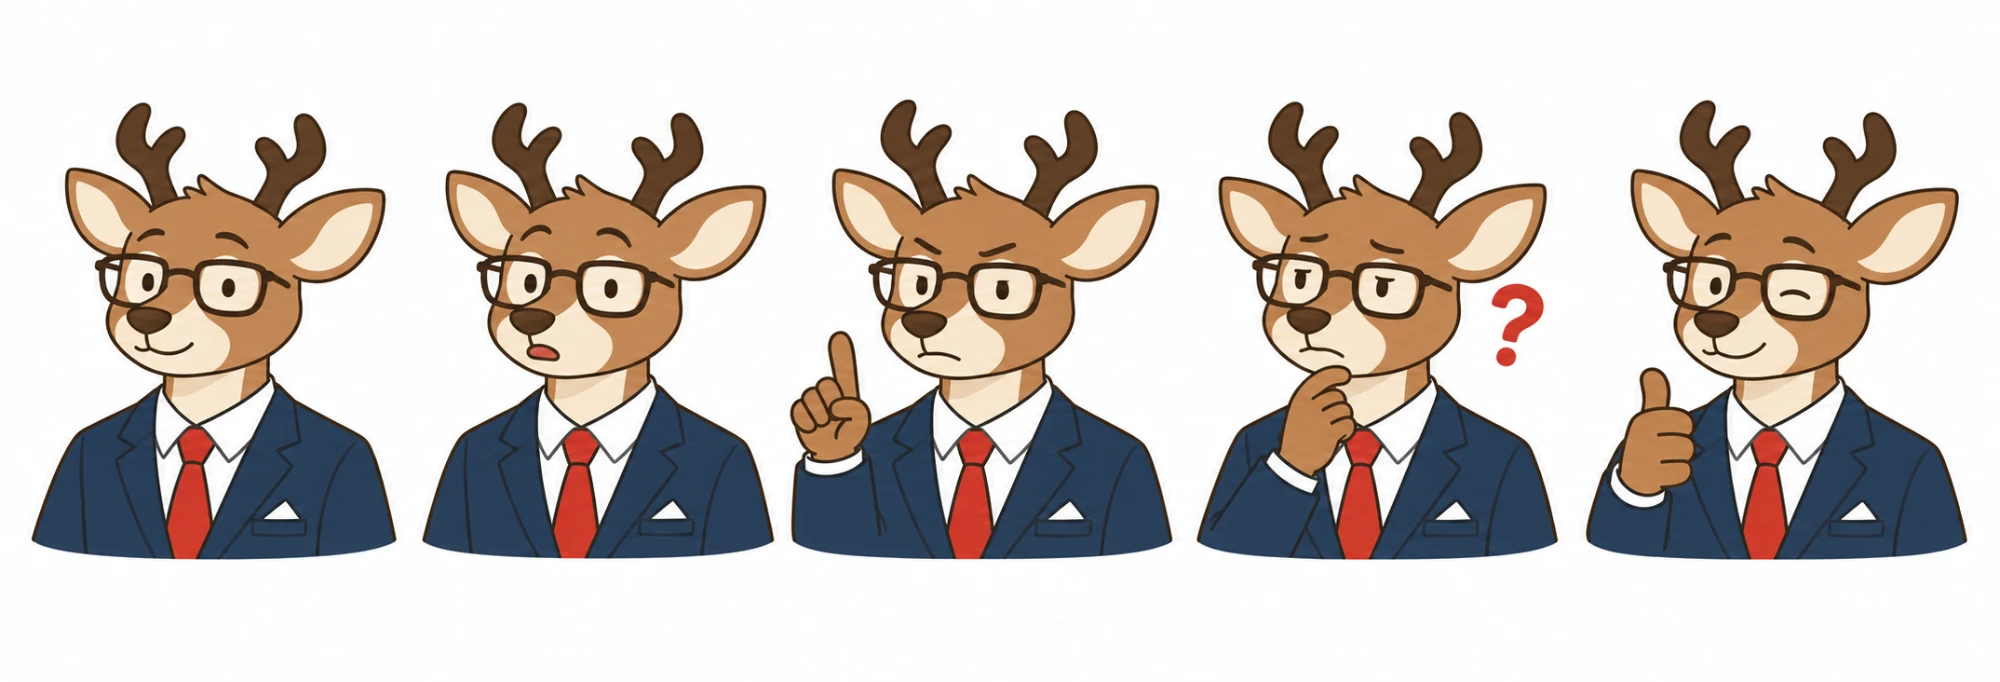
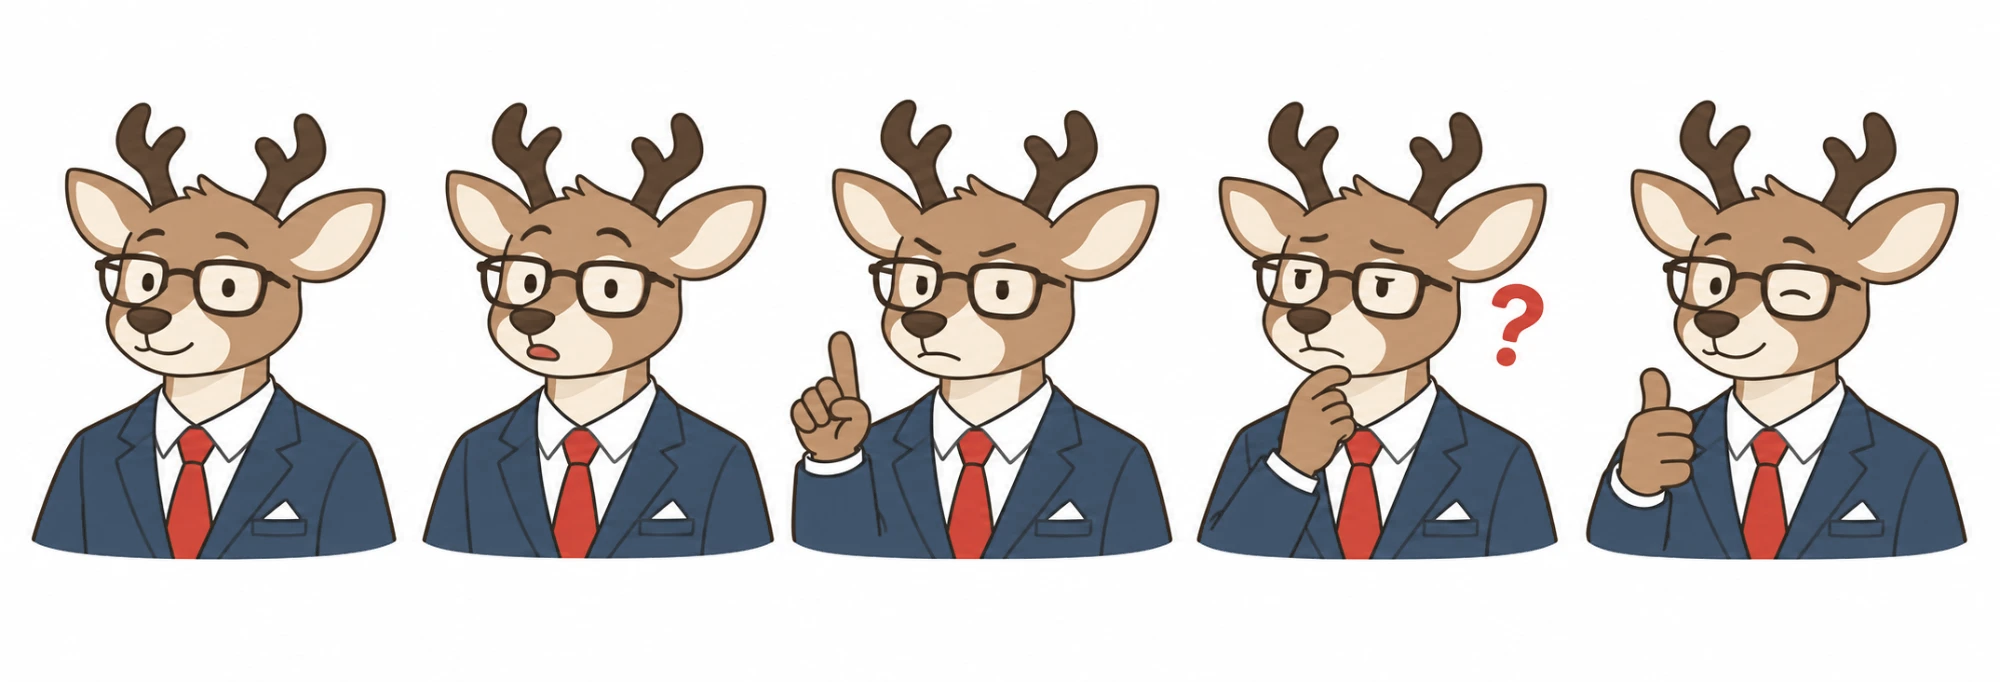
feat: 오래 박사 에셋 채도 보정(B안) 적용
- 표정·포즈·아이콘·마스터 4개 채도 x0.72, 넥타이 빨강 유지, 남색 밝기 x1.18
- 보정 전 파일은 assets/characters/original/에 보관
- 캐릭터 바이블·화면 가이드의 색 값과 장면 프롬프트에 차분한 색 문장 반영
- tools/color_match.py: 새 오래 박사 그림에 같은 보정을 거는 도구

Claude-Session: https://claude.ai/code/session_015LaywikbdZxaATMPowS8Je

diff --git a/orae-channel/tools/color_match.py b/orae-channel/tools/color_match.py
@@ -1,0 +1,62 @@
+"""오래 박사 그림의 색을 사람 캐릭터에 맞추는 채도 보정 (2026-10-16 B안).
+
+채도 x0.72, 빨강(넥타이)은 x0.9로 거의 유지, 남색은 밝기 x1.18. 거의 흰색인 픽셀은 건드리지 않습니다.
+새로 만든 오래 박사 그림이 사람 캐릭터보다 쨍할 때 씁니다. 사람이 함께 있는 장면에는 쓰지 않습니다.
+
+사용법:
+    python3 tools/color_match.py 입력.png [출력.png] [--keep 255,242,212]
+    (출력을 생략하면 입력 이름 뒤에 _matched를 붙여 저장, --keep은 보존할 배경색)
+"""
+import colorsys
+import os
+import sys
+
+from PIL import Image
+
+
+def grade(rgb, s_scale=0.72, v_scale_blue=1.18):
+    r, g, b = rgb
+    if r > 240 and g > 240 and b > 240:
+        return rgb
+    h, s, v = colorsys.rgb_to_hsv(r / 255, g / 255, b / 255)
+    hd = h * 360
+    k = s_scale
+    if (hd < 15 or hd > 345) and s > 0.5:
+        k = max(s_scale, 0.9)
+    s = min(1, s * k)
+    if 195 <= hd <= 240 and s > 0.2:
+        v = min(1, v * v_scale_blue)
+    r2, g2, b2 = colorsys.hsv_to_rgb(h, s, v)
+    return (int(r2 * 255), int(g2 * 255), int(b2 * 255))
+
+
+def match_image(path, keep=None):
+    im = Image.open(path).convert('RGB')
+    px = im.load()
+    cache = {}
+    for y in range(im.height):
+        for x in range(im.width):
+            c = px[x, y]
+            if keep and sum(abs(a - b) for a, b in zip(c, keep)) <= 12:
+                continue
+            n = cache.get(c)
+            if n is None:
+                n = cache[c] = grade(c)
+            px[x, y] = n
+    return im
+
+
+if __name__ == '__main__':
+    args = sys.argv[1:]
+    keep = None
+    if '--keep' in args:
+        i = args.index('--keep')
+        keep = tuple(int(v) for v in args[i + 1].split(','))
+        del args[i:i + 2]
+    if not args:
+        print(__doc__)
+        sys.exit(1)
+    src = args[0]
+    dst = args[1] if len(args) > 1 else '%s_matched%s' % os.path.splitext(src)
+    match_image(src, keep).save(dst, optimize=True)
+    print('저장:', dst)

diff --git a/orae-channel/docs/06_캐릭터바이블.md b/orae-channel/docs/06_캐릭터바이블.md
@@ -3,12 +3,12 @@
 ## 0. 현재 상태
 | 캐릭터 | 상태 |
 |---|---|
-| 오래 박사 (사슴) | ✅ **확정** (2026-10-16): 마스터 `orae_master.png`, 표정 5종 `orae_expressions.png`, 포즈 6종 `orae_poses.png`, 채널 아이콘 `orae_icon.png` |
+| 오래 박사 (사슴) | ✅ **확정** (2026-10-16): 마스터 `orae_master.png`, 표정 5종 `orae_expressions.png`, 포즈 6종 `orae_poses.png`, 채널 아이콘 `orae_icon.png`. 채도 보정(B안) 적용, 보정 전 파일은 `original/` |
 | 50대 남성 주인공 | ✅ **확정** (2026-10-16): `man_sheet.png` (전신, 4방향, 표정 6, 동작 6), 참조용 전신 `man_master.png` |
 | 50대 여성 주인공 | ✅ **확정** (2026-10-16): `woman_sheet.png` (전신, 4방향, 표정 6, 동작 6), 참조용 전신 `woman_master.png` |
 
 **남은 일**
-1. **채도 맞추기:** 사슴이 사람보다 채도가 약 1.5배 높고 블레이저가 더 어둡습니다(측정: 사슴 털 채도 0.58, 블레이저 0.48·밝기 0.35 / 남성 티셔츠 채도 0.35·밝기 0.50, 피부 0.33~0.35, 카디건 0.25). 사슴 에셋 전체의 채도를 낮추는 보정안을 사용자 선택 대기 중입니다.
+1. ~~채도 맞추기~~ **완료 (2026-10-16, B안).** 사슴이 사람보다 채도가 약 1.5배 높고 블레이저가 어두웠습니다(측정: 사슴 털 채도 0.58, 블레이저 0.48·밝기 0.35 / 남성 티셔츠 채도 0.35·밝기 0.50). 사슴 파일 4개의 채도를 0.72배로 낮추고, 빨간 넥타이는 거의 유지, 남색은 밝기를 1.18배 올렸습니다. 아이콘의 크림 배경은 그대로입니다. 앞으로 새 그림을 만들 때는 보정된 파일을 첨부합니다. 새로 만든 오래 박사 단독 그림이 또 쨍하면 `python3 tools/color_match.py <파일>`로 같은 보정을 겁니다.
 2. **해상도:** 시트 안의 포즈 하나가 세로 250~350px라 1080p 영상에 크게 쓰기엔 작습니다. 업스케일(2~4배)하거나, 시트를 첨부해 포즈 하나씩 고해상도로 다시 뽑습니다.
 3. **표정·포즈 낱장 분리 + 배경 제거:** 해상도 해결 뒤 `orae_<표정>.png`처럼 나눕니다.
 4. (선택) 남녀 주인공 바지가 같은 베이지라 둘이 함께 서면 비슷해 보입니다. 여성을 연회색 슬랙스로 바꾸는 안.
@@ -31,7 +31,7 @@
 | 상징 | 사슴은 십장생(장수)이고, 사슴 '록(鹿)'은 재물을 뜻하는 '록(祿)'과 소리가 같아 **건강과 재물**을 함께 상징합니다 |
 | 이름 | '오래 박사'. 장수(건강)와 오래 모으기(장기투자). '박사'는 별명이며 실제 자격을 내세우지 않습니다 |
 | 성격 | 차분, 다정, 과장을 싫어함, 근거 확인을 좋아함 |
-| 고정 요소 | 따뜻한 연갈색 털(#BF864E), 크림색 주둥이·귀 안쪽·목, 짙은 갈색 코, 작고 차분한 눈과 눈썹, 머리 위 털 한 줌, 좌우 대칭 뿔(양쪽 2갈래), 큰 귀, **짙은 갈색 사각 뿔테 안경**, **남색 블레이저(#30435C, 단추 2개, 흰 행커치프) + 흰 셔츠 + 빨간 넥타이(#CF3A2F)**, 회색 바지, **털색 만화 손(손가락 있음)**, 발은 발굽, 꼬리는 보이지 않게, 약 5등신, 짙은 갈색 외곽선 + 평면 채색 |
+| 고정 요소 | 따뜻한 연갈색 털(#BF956D), 크림색 주둥이·귀 안쪽·목, 짙은 갈색 코, 작고 차분한 눈과 눈썹, 머리 위 털 한 줌, 좌우 대칭 뿔(양쪽 2갈래), 큰 귀, **짙은 갈색 사각 뿔테 안경**, **남색 블레이저(#47576C, 단추 2개, 흰 행커치프) + 흰 셔츠 + 빨간 넥타이(#CF483F)**, 회색 바지, **털색 만화 손(손가락 있음)**, 발은 발굽, 꼬리는 보이지 않게, 약 5등신, 짙은 갈색 외곽선 + 평면 채색 |
 | 절대 넣지 않음 | 흰 가운, 청진기, 의료 십자가, 녹용 약재, 견장·어깨 패치, 털 무늬(옷 위에 그려짐), 바지 옆으로 보이는 꼬리 |
 | 시그니처 멘트 | "오늘 배운 잡학으로, 오래오래 건강하게. 오래 박사였습니다." |
 
@@ -118,18 +118,19 @@ Text, letters, labels, logos, brand names, photorealistic style, anime style.
 The three characters from the attached images standing side by side and smiling at the viewer: the man on the left, the deer in the middle, the woman on the right. Same art style and outline thickness for all three, consistent scale (the deer is about the same height as the man). Pure white background, no text.
 
 ===== ⑦ 썸네일 장면 틀 (캐릭터 이미지 첨부, [ ] 안만 바꿔서 사용) =====
-Wide 16:9 illustration in the same art style as the attached characters, pure white background, with the top 30% left completely empty for title text added later.
+Wide 16:9 illustration in the same art style and soft muted colors as the attached characters, pure white background, with the top 30% left completely empty for title text added later.
 Left: [제품] on a small table. Center-left: the [man/woman] from the attached image [행동] with a neutral face. A big bold red arrow pointing right. Right: the same [man/woman] looking shocked, and the deer character beside him/her pointing with a concerned face.
 No text, no logos, no brand names.
 
 ===== ⑧ 영상 장면 틀 (캐릭터 이미지 첨부) =====
-Wide 16:9 illustration in the same art style as the attached characters, pure white background, [장면 설명]. Simple composition with plenty of empty space for subtitles at the bottom. No text, no logos, no brand names.
+Wide 16:9 illustration in the same art style and soft muted colors as the attached characters, pure white background, [장면 설명]. Simple composition with plenty of empty space for subtitles at the bottom. No text, no logos, no brand names.
 
 ===== 잘 안 나올 때 추가할 문장 =====
 얼굴이 달라지면 → keep the face exactly the same as the attached image
 일본인처럼 보이면 → Korean facial features, Korean everyday fashion
 너무 젊어 보이면 → clearly in his/her 50s, visible gray hair and gentle wrinkles
 화풍이 다르면 → match the attached deer image's outline thickness, flat coloring and shading exactly
+색이 쨍하면 → use soft, muted, slightly desaturated colors like the attached human characters; keep the necktie clearly red
 옷 색은 제품에 맞춰 바꿔도 됨 (예: 토마토 편은 red polo shirt) — 얼굴과 머리는 절대 바꾸지 않기
 ```
 
@@ -138,10 +139,10 @@ Wide 16:9 illustration in the same art style as the attached characters, pure wh
 
 ```
 An original mascot character "Dr. Orae", a wise and trustworthy middle-aged deer scholar, full body, front view, standing upright on two legs, about 5 heads tall, mature and professional (not chibi, not a baby deer).
-Warm light brown fur (#BF864E), cream muzzle, inner ears and neck, dark brown nose, small calm eyes with soft eyebrows, a small tuft of fur on top of the head, large ears, symmetrical antlers with two tines on each side.
-Dark brown rectangular glasses. Navy blazer (#30435C) with two buttons and a white pocket square, plain clean shoulders, white shirt, red necktie (#CF3A2F), gray trousers, hooves for feet, fur-colored cartoon hands with fingers, no visible tail.
+Warm light brown fur (#BF956D), cream muzzle, inner ears and neck, dark brown nose, small calm eyes with soft eyebrows, a small tuft of fur on top of the head, large ears, symmetrical antlers with two tines on each side.
+Dark brown rectangular glasses. Navy blazer (#47576C) with two buttons and a white pocket square, plain clean shoulders, white shirt, red necktie (#CF483F), gray trousers, hooves for feet, fur-colored cartoon hands with fingers, no visible tail.
 Right hand raised as if explaining, gentle smile.
-Dark brown outlines, flat coloring with subtle shading, educational illustration style, pure white background. No text, no lab coat, no stethoscope, no medical cross, no epaulettes.
+Dark brown outlines, flat coloring with subtle shading, soft muted colors (not vivid), educational illustration style, pure white background. No text, no lab coat, no stethoscope, no medical cross, no epaulettes.
 ```
 </details>
 

diff --git a/orae-channel/episodes/001_커피/04_이미지프롬프트.md b/orae-channel/episodes/001_커피/04_이미지프롬프트.md
@@ -5,7 +5,7 @@
 ## 썸네일
 **A안 (남성 주인공)**
 ```
-Wide 16:9 illustration in the same art style as the attached characters, plain white background, with the top 30% left completely empty for title text added later.
+Wide 16:9 illustration in the same art style and soft muted colors as the attached characters, plain white background, with the top 30% left completely empty for title text added later.
 Left: a generic yellow instant coffee stick and a plain white paper cup of milky coffee on a small table, plus a few coffee beans, no logos.
 Center-left: the man from the attached image drinking coffee from the paper cup with a relaxed neutral face.
 A big bold red arrow pointing right.
@@ -39,7 +39,7 @@ No text, no logos, no brand names.
 
 **새로 그리는 장면 공통 틀** (첨부: 캐릭터 이미지)
 ```
-Wide 16:9 illustration in the same art style as the attached characters, plain white background, [장면 설명]. Simple composition with plenty of empty space for subtitles at the bottom. No text, no logos, no brand names.
+Wide 16:9 illustration in the same art style and soft muted colors as the attached characters, plain white background, [장면 설명]. Simple composition with plenty of empty space for subtitles at the bottom. No text, no logos, no brand names.
 ```
 
 **장면 설명 예시 (영어로 `[장면 설명]` 자리에 넣기)**

diff --git a/orae-channel/assets/characters/README.md b/orae-channel/assets/characters/README.md
@@ -11,8 +11,10 @@
 | `man_sheet.png` | 50대 남성: 전신, 4방향, 표정 6(미소·맛있음·놀람·걱정·피곤·웃음), 동작 6(컵·밥·배 아픔·허리 통증·통장·엄지척) | 1536×1024 |
 | `woman_sheet.png` | 50대 여성: 전신, 4방향, 표정 6, 동작 6(컵·밥·배 아픔·거울·열감·휴대폰) | 1536×1024 |
 | `man_master.png`, `woman_master.png` | 시트에서 잘라낸 정면 전신 (참조 첨부용, 저해상도) | 307×614 |
+| `original/` | 채도 보정 전 오래 박사 원본 4개 (되돌릴 때만 사용, 생성 참조로 첨부하지 않음) | |
+
+오래 박사 파일 4개는 2026-10-16에 사람 캐릭터와 색을 맞추려고 채도를 낮췄습니다(B안). 새 그림을 만들 때는 이 폴더의 보정본을 첨부합니다.
 
 ## 남은 일
-- 사슴 채도 보정 (사람 캐릭터보다 진하고 쨍함). 확정되면 오래 박사 파일 전부를 보정본으로 바꿉니다.
 - 시트 속 포즈 하나가 세로 250~350px입니다. 영상에 크게 쓰려면 업스케일하거나 낱장으로 다시 뽑습니다.
 - 낱장 분리 + 배경 제거 후 `orae_<표정>.png`, `man_<동작>.png` 형식으로 저장합니다.

diff --git a/orae-channel/docs/09_장면이미지라이브러리.md b/orae-channel/docs/09_장면이미지라이브러리.md
@@ -22,7 +22,7 @@
 
 ## 3. 공통 프롬프트 틀
 ```
-Wide 16:9 illustration in the same art style as the attached characters (dark brown outlines, flat coloring, subtle shading), [배경], [장면 설명]. Korean everyday setting. Simple composition with empty space at the bottom for subtitles. No text, no numbers, no logos, no brand names.
+Wide 16:9 illustration in the same art style as the attached characters (dark brown outlines, flat coloring, subtle shading, soft muted colors), [배경], [장면 설명]. Korean everyday setting. Simple composition with empty space at the bottom for subtitles. No text, no numbers, no logos, no brand names.
 ```
 - `[배경]`: `pure white background` (기본) 또는 아래 4번의 한국식 배경
 - 캐릭터가 나오면 해당 캐릭터 이미지를 첨부하고 `the man / the woman / the deer character from the attached image`로 부릅니다.

diff --git a/orae-channel/docs/05_화면구성가이드.md b/orae-channel/docs/05_화면구성가이드.md
@@ -46,7 +46,7 @@
 | 강조 (썸네일·경고·넥타이) | 빨강 #E0302F |
 | 기본 글씨 | 검정 #111111 |
 | 배경 | 흰색 #FFFFFF, 크림 #FFF3D6 |
-| 오래 박사 블레이저 / 넥타이 | 남색 #30435C / 빨강 #CF3A2F |
+| 오래 박사 털 / 블레이저 / 넥타이 | 연갈색 #BF956D / 남색 #47576C / 빨강 #CF483F (2026-10-16 채도 보정 후) |
 | 남성 주인공 티셔츠 | 청회색 #4F6D8A |
 | 여성 주인공 카디건 | 세이지그린 #7C9A6E |
 | 좋은 변화 표시 | 초록 #2E9E5B |
